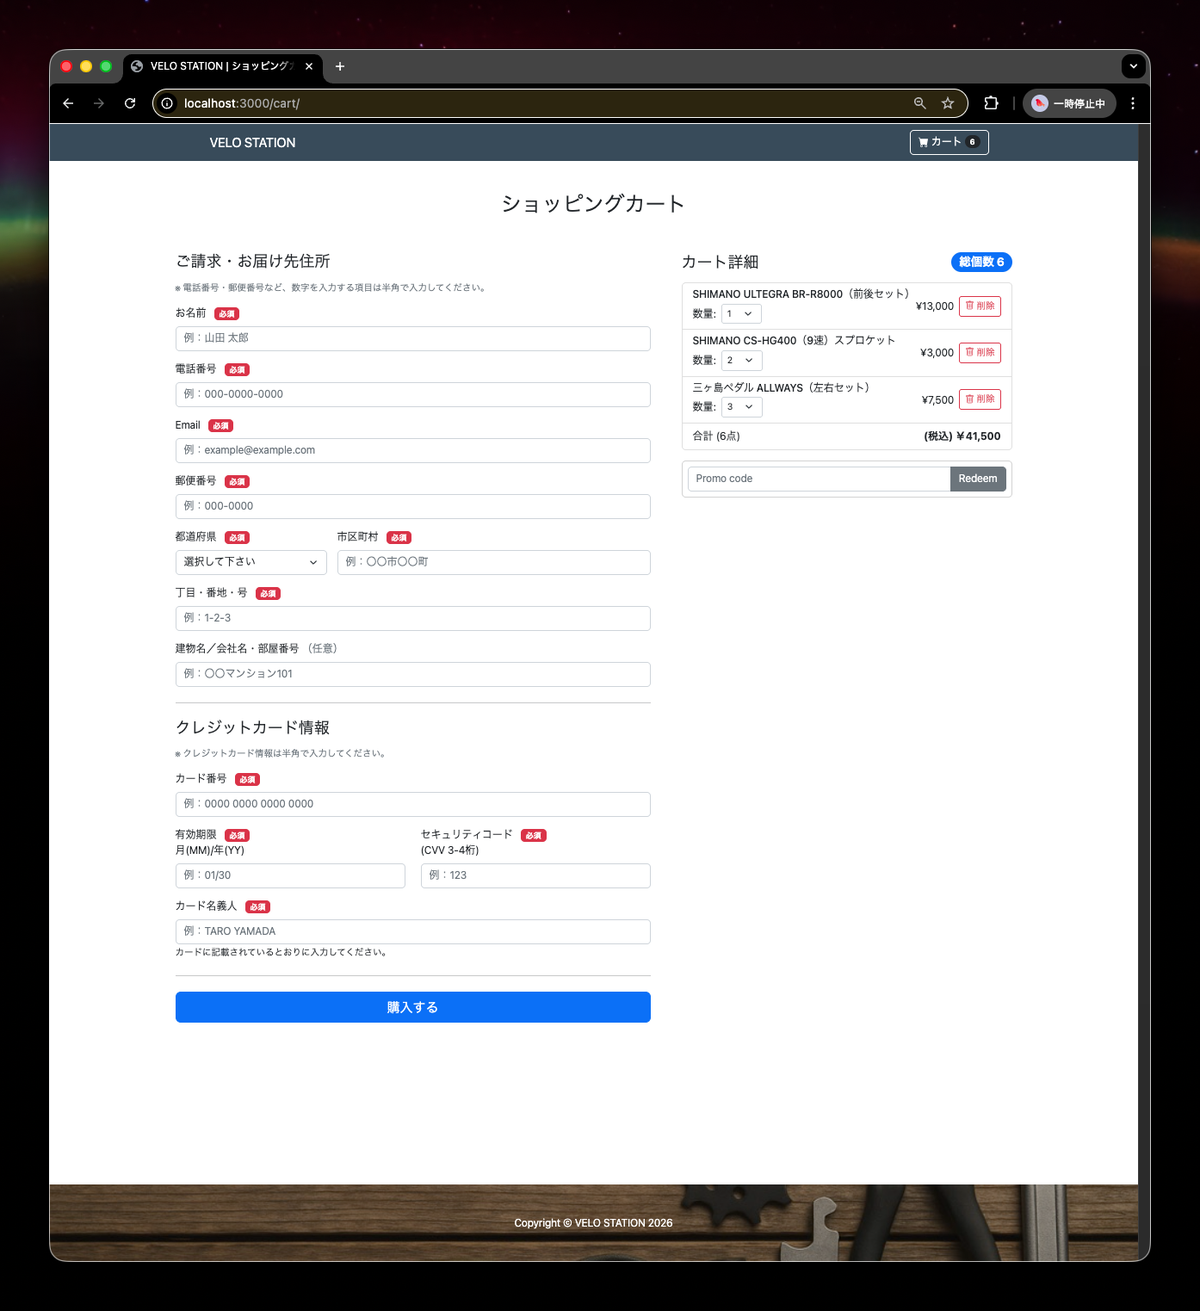
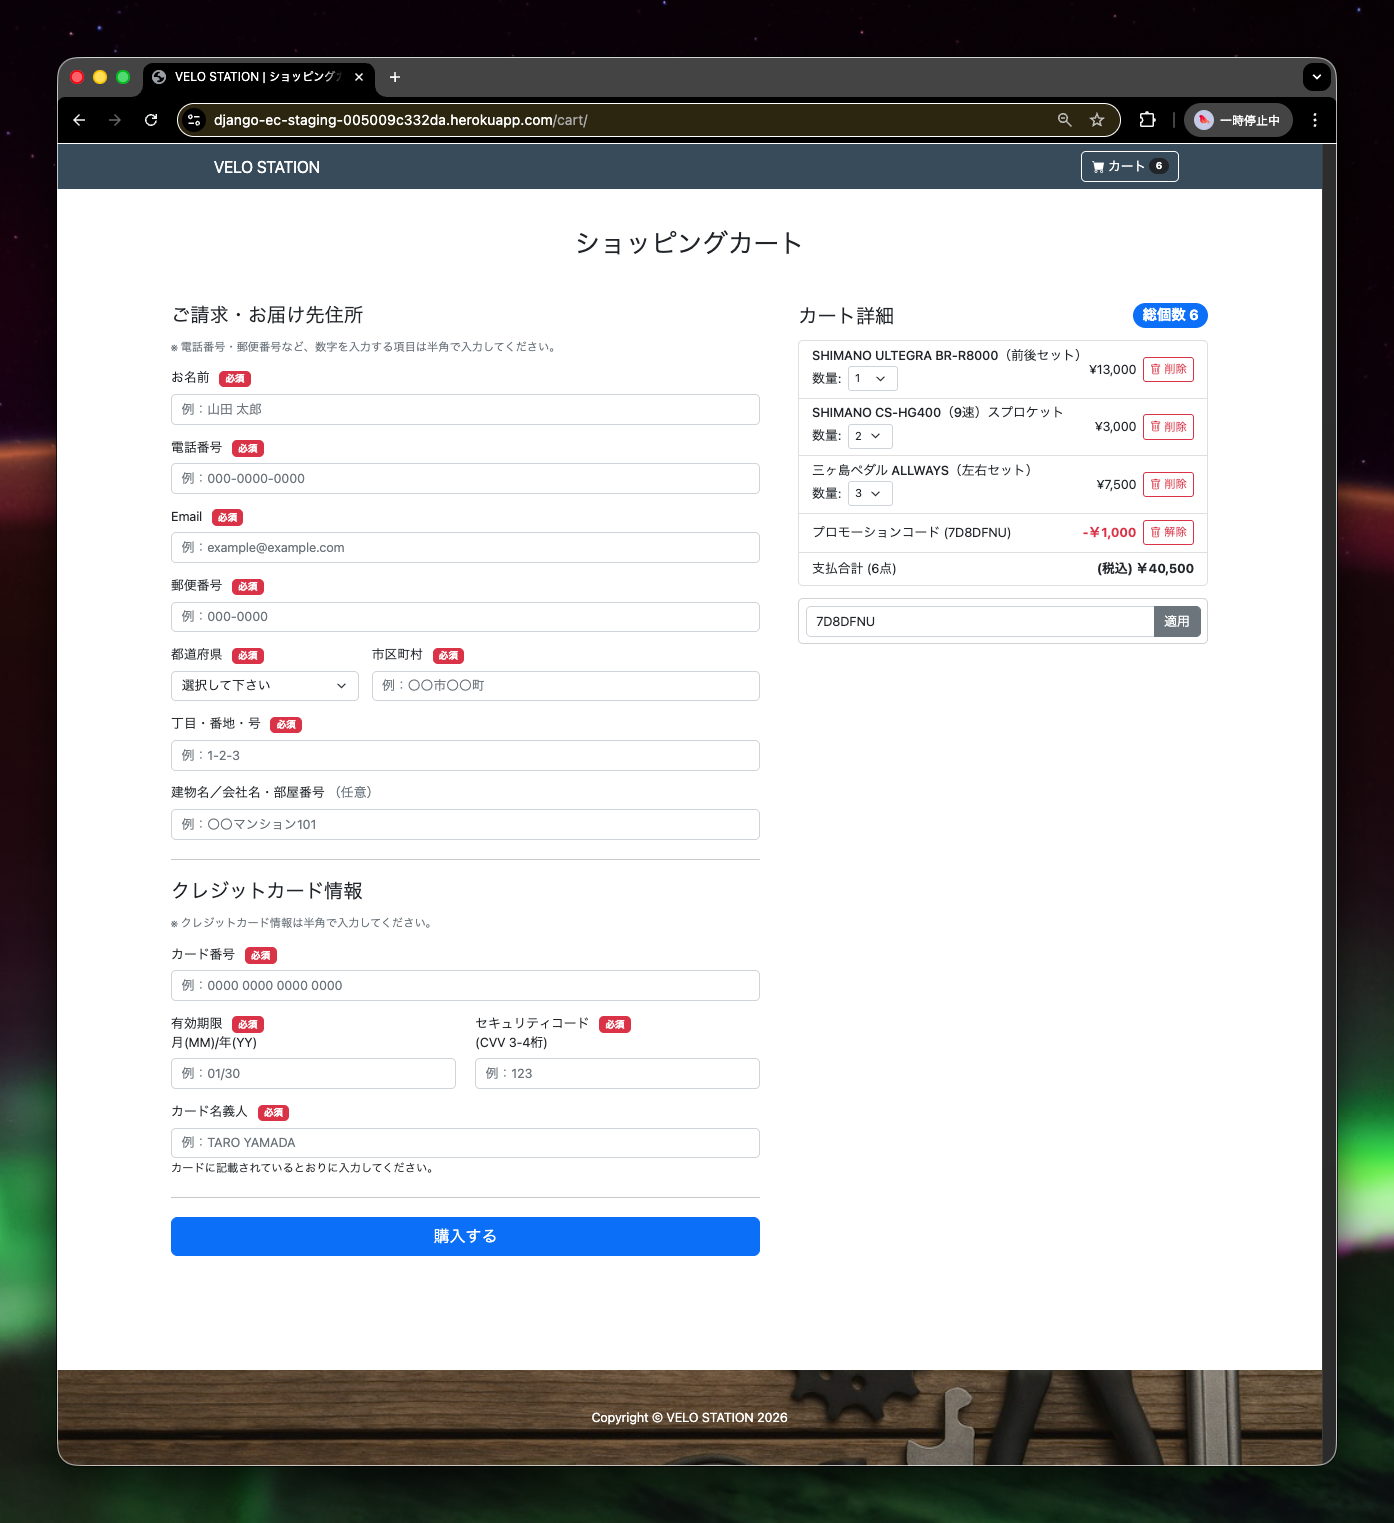
docs: READMEを最新仕様に更新

diff --git a/README.md b/README.md
@@ -9,6 +9,20 @@ Djangoで作成したECサイトです。
 
 ---
 
+## 技術スタック
+
+- Python 3.12
+- Django 4.2
+- PostgreSQL
+- Docker / Docker Compose
+- Bootstrap（既存テンプレートをベースにUIを構築）
+- Gunicorn + WhiteNoise（デプロイ環境で使用）
+- Cloudinary（画像ストレージ）
+- メール送信（SMTP 経由：SendGrid）
+- Heroku
+
+---
+
 ## できること（実装済み）
 
 ### お客様向け
@@ -19,17 +33,29 @@ Djangoで作成したECサイトです。
 - 購入後：購入完了画面にてフラッシュメッセージを表示
 - 注文完了メール送信（購入明細を含む）
 - セッション単位でカートを分離（ブラウザが違えば別カート）
+- **プロモーションコード適用**
+  - 7桁英数字のコードをカートで適用
+  - 割引後の支払合計を即時反映
+  - 適用中コードの解除が可能
+  - 無効・使用済みコードはエラー表示
 
 ### 管理者向け（/admin とは別に独自実装）
 - 管理者用 商品管理ページ（`/manage/products`）
   - 商品一覧 / 作成 / 編集 / 削除（一覧から削除可能）
 - 管理者用 注文一覧（`/manage/orders/`）
   - 注文詳細
+  - プロモーションコード / 値引き額の確認
   - 購入者は閲覧不可
 - 管理者向けページは Basic認証で保護
 
+### Django admin
+- 商品・注文・プロモーションコードの管理
+- 注文詳細で金額・割引情報を確認可能
+- 学習用のカード情報は readonly で表示
+
 ### データの整合性
 - 商品情報を更新・削除しても、購入明細は「購入時点の情報」を保持
+- プロモーション割引額も注文時点のスナップショットとして保持
 
 ---
 
@@ -37,19 +63,21 @@ Djangoで作成したECサイトです。
 
 - 購入フローの一連を実装（カート → チェックアウト → 注文作成 → 注文明細作成 → メール送信）
 - セッション単位でカートを分離し、複数ユーザー同時利用でも混ざらない設計
-- 購入明細はスナップショットとして保持し、商品が削除されても注文情報が壊れないように実装
+- 注文・在庫・プロモーションコードは `select_for_update()` により行ロックし、同時実行時の不整合を防止
+- プロモーションコードは管理コマンドで事前生成し、DBで管理。注文確定時に使用済みへ更新
+- 割引額は注文金額を上限として適用し、マイナスにならないよう制御
+- 割引額が 0 になる境界ケースも考慮し、DB制約・モデル・ドキュメントの整合を担保
 - Django標準 admin に頼らず管理画面を独自実装し、Basic認証で保護
-- カートの数量変更は非同期で処理し、チェックアウト画面の入力内容が保持されるように実装
+- カートの数量変更・削除・プロモーションコード適用は fetch（Ajax）で部分更新し、画面遷移なしで反映
 - 商品一覧・カートの数量選択はプルダウン式にし、DBの在庫数を上限として反映
+- 表示上の「合計金額」を「支払合計」に統一し、利用者・管理者双方で混乱しないUIに調整
 - 郵便番号から住所を自動入力し、購入時の入力負担を軽減
-- 注文確定時は行ロックで在庫をチェックし、不整合があれば注文を確定せずカートへ戻す
 
 ---
 
 ## 現在対応中
 
-- プロモーションコード機能（適用・割引・1回のみ利用）
-  - 実装中のため、完了後に機能一覧へ追記予定
+- チェックアウト画面でのフロント側でのバリデーションの追加
 
 ---
 
@@ -72,23 +100,49 @@ ALLOWED_HOSTS=localhost,127.0.0.1,0.0.0.0
 ### dockerを立ち上げる
 
 ```
-docker-compose up
+docker compose up
 ```
 
-※ 以降の `docker-compose exec` は、上記でコンテナ起動中であることが前提です。
+※ 以降の `docker compose exec` は、上記でコンテナ起動中であることが前提です。
 
 ### 初期データ（シード）を投入
 
 ※ ローカル環境で商品を表示する場合は、初期データ（シード）を登録してください。
 
 ```
-docker-compose exec web python manage.py migrate
-docker-compose exec web python manage.py loaddata products/fixtures/products.json
+docker compose exec web python manage.py migrate
+docker compose exec web python manage.py loaddata products/fixtures/products.json
 ```
 
-### 画面イメージ
+### 起動確認
 ブラウザで以下にアクセスし、商品一覧画面が表示されれば起動完了です。
 
 [localhost:3000/](http://localhost:3000/)
+
+---
+
+## 画面イメージ
+
+#### 商品一覧
 ![商品一覧画面](docs/screenshots/top.png)
+
+#### 商品詳細
+![商品詳細画面](docs/screenshots/product_detail.png)
+
+#### カート・チェックアウト
 ![チェックアウト画面](docs/screenshots/checkout.png)
+
+#### 購入完了
+![購入完了画面](docs/screenshots/order_complete.png)
+
+#### 管理者向け 商品一覧
+![管理者 商品一覧](docs/screenshots/manage_products.png)
+
+#### 管理者向け 注文一覧
+![注文一覧画面](docs/screenshots/manage_orders.png)
+
+#### 管理者向け 注文詳細
+![注文詳細画面](docs/screenshots/manage_order_detail.png)
+
+#### 購入確認メール（本文）
+![購入確認メール](docs/screenshots/order_mail.png)
